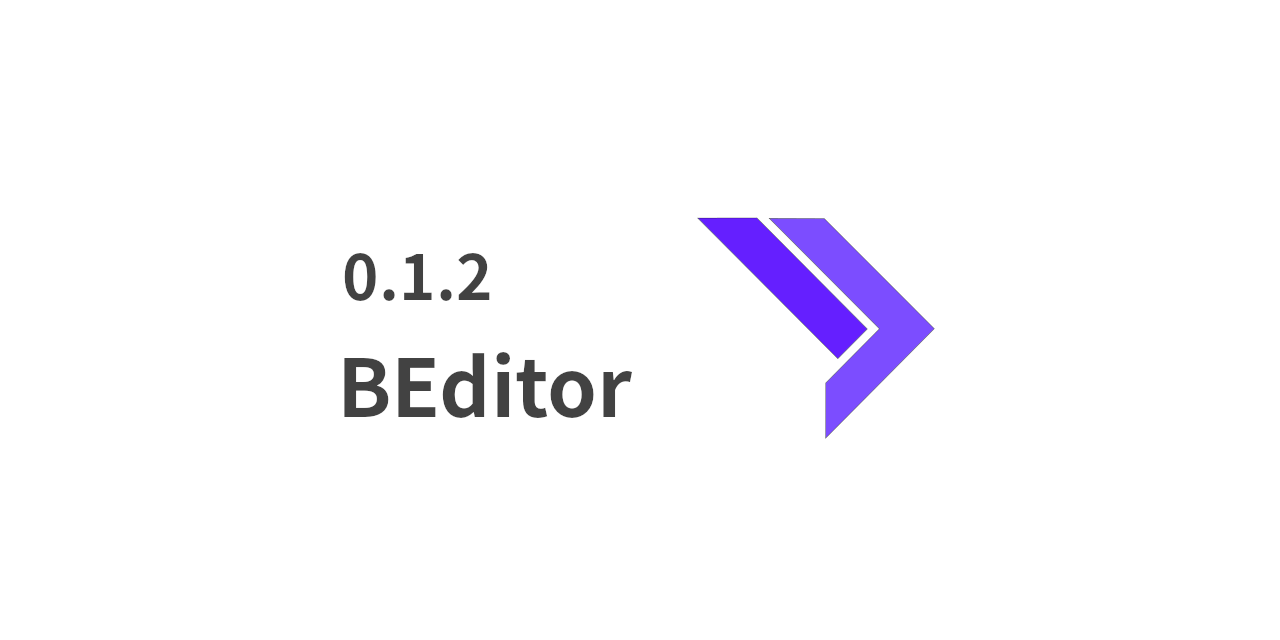
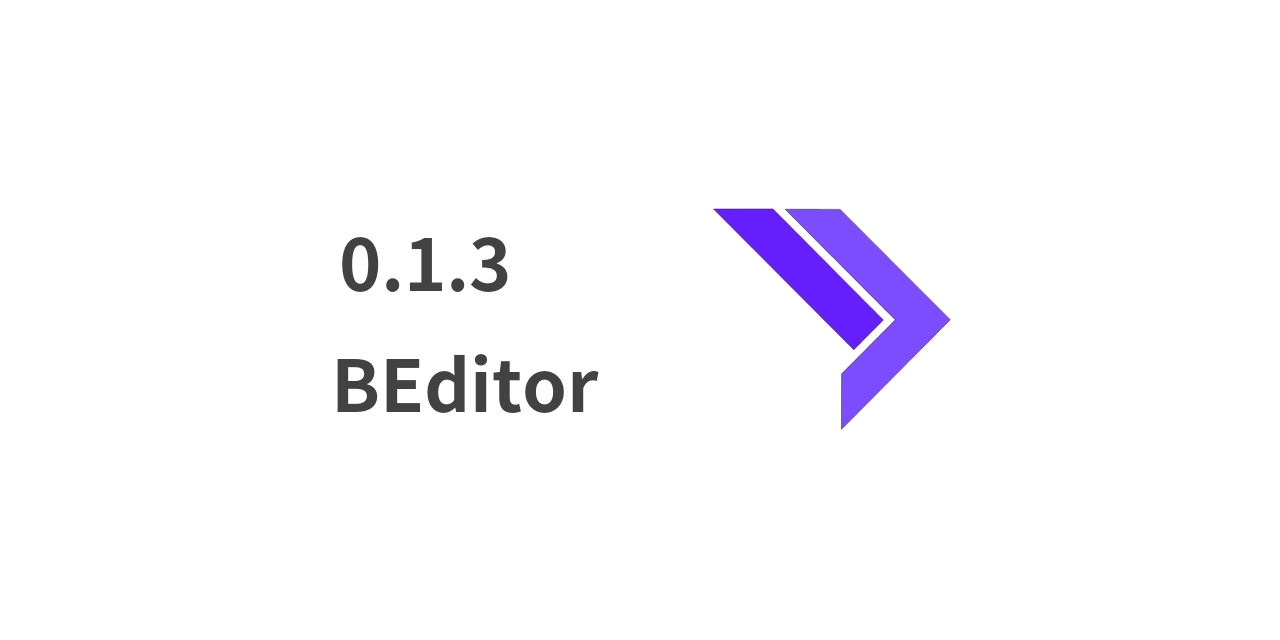
[update] READMEなどを0.1.3用に変更

Changed region(s): [[0.5312, 0.3125, 0.75, 0.6875], [0.25, 0.5312, 0.5, 0.6562], [0.25, 0.375, 0.4062, 0.4688]]

diff --git a/RELEASE_NOTES.md b/RELEASE_NOTES.md
@@ -1,3 +1,21 @@
+## BEditor 0.1.3
+[ダウンロード](https://github.com/b-editor/BEditor/releases/tag/v0.1.3)
+
+### 変更
+* 動画ファイルの入出力を拡張機能で追加するように変更。
+* シーン, クリップ, エフェクトを追加するダイアログを追加。(#171, #172, ＃173)
+* キーフレームのあるプロパティを読み込んだときに例外が出るのを修正。
+* アライメントを設定するエフェクトを追加。(#175)
+* 通知機能を追加。(#191)
+* 極座標変換エフェクトを追加。(#185)
+* プラグインのインストーラーを追加。 (#198)
+* スタートウィンドウを追加。 (#175)
+* テキストオブジェクトの "個別オブジェクト" を削除。
+* 音声オブジェクトの座標プロパティを削除。
+* Idが重複する可能性があったので修正
+* タイムラインの目盛りを横幅を超えたとき表示しないようにした
+* クリップの移動を修正
+
 ## BEditor 0.1.2
 
 * [ダウンロード](https://github.com/b-editor/BEditor/releases/tag/v0.1.2)

diff --git a/README.md b/README.md
@@ -12,7 +12,7 @@
 
 Windows, Linux, macOSで動作する動画編集ソフトウェアです。
 
-![](https://beditor.net/api/header/?version=0.1.2)
+![](https://beditor.net/api/header/?version=0.1.3)
 
 ## Feature
 
